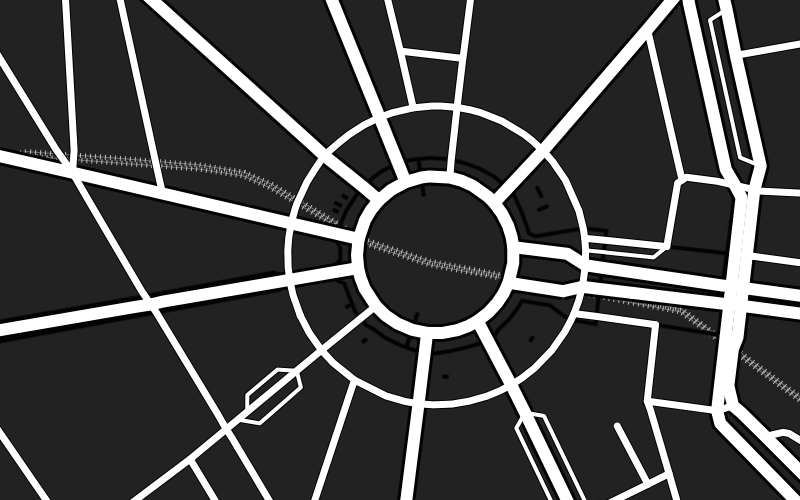
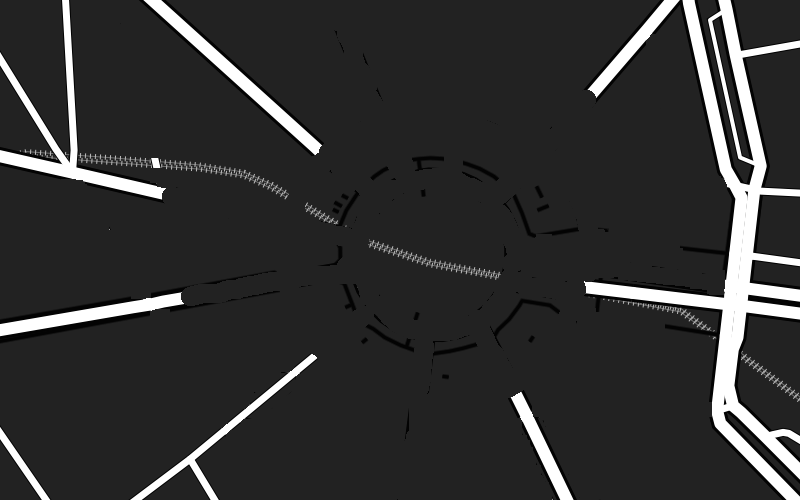
...

diff --git a/explicit-texture-m.html b/explicit-texture-m.html
@@ -24,10 +24,10 @@
 	</style>
 </head>
 <body onload="startTime()">
-	<h3>Please draw a route from A to B and press "submit".</h3>
+<h3>Please draw a route from A to B and press "submit".</h3>
 	<div id="map"></div>
-		<div id="legend" style="float:left; margin-left: 50px;">
-<!-- 		<img src="images/legend_red.png" width="100px"> -->
+	<div id="legend" style="float: left; margin-left: 50px;">
+		<img src="images/legend_blue_border.png" width="100px">
 	</div>
 	<div id="buttons" style="clear: both;">
 	<input id="deleteButton" type="button" value="Delete route"
@@ -41,10 +41,19 @@
 	</div>
 	<script>
 		var visualization = 6;
+		var backgroundPath = "./images/scenario1.png";
+		var roadfile = "scenario1";
+		var roadnodesfile = "scenario1_points";
 		var pointsABname = "AB1";
-		var A_B_LABEL_POSITION = [-30, 0, 25, -5];
-		var risks = [0, 0.61, 0.41, 0.21, 0.01];
+		var A_B_LABEL_POSITION = [ -30, 0, 25, 35 ];
+		var risks = [ 0, 0.2, 0.10, 0.04, 0.025 ];
 		var routes = false;
+		
+		var width = 800;
+		var height = 500;
+		var center = [width / (200.), height / 200.]; // Center vector [lon, lat]
+		var scale = width * 2.3 * Math.PI;
+		var translate = [width/2, height/2-1];
 	</script>
 	<script src="lib/d3.js"></script>
 	<script src="lib/topojson.js"></script>

diff --git a/explicit-color-2.html b/explicit-color-2.html
@@ -35,7 +35,7 @@
 	<h3>Please draw a route from A to B and press "submit".</h3>
 	<div id="map"></div>
 	<div id="legend" style="float: left; margin-left: 50px;">
-		<img src="images/legend_blue.png" width="100px">
+		<img src="images/legend_blue_border.png" width="100px">
 	</div>
 	<div id="buttons" style="clear: both;">
 	<input id="deleteButton" type="button" value="Delete route"
@@ -53,14 +53,14 @@
 		var roadfile = "scenario2";
 		var roadnodesfile = "scenario2_points";
 		var pointsABname = "scenario2-AB1";
-		var A_B_LABEL_POSITION = [ -20, -15, 0, 50 ];
+		var A_B_LABEL_POSITION = [ -25, 35, -10, 50 ];
 		var risks = [ 0, 0.2, 0.10, 0.04, 0.025 ];
 		var routes = false;
 		
 		var width = 800;
 		var height = 500;
-		var center = [width / (200.), height / 200.], // Center vector [lon, lat]
-		var scale = width * 2.3 * Math.PI,
+		var center = [width / (200.), height / 200.]; // Center vector [lon, lat]
+		var scale = width * 2.3 * Math.PI;
 		var translate = [width/2, height/2-1];
 	</script>
 	<script src="lib/d3.js"></script>

diff --git a/js/sdm.js b/js/sdm.js
@@ -272,6 +272,7 @@ d3.json("data/"+ roadfile + ".topojson", function(error, roaddata) {
 		})
 		.style("fill", SYMBOL_COLOR)
 		.style("stroke", SYMBOL_STROKE_COLOR)
+		.style("stroke-size", 1)
 		.style("opacity", function(d) {
 			return 1;//visualization == EXPLICIT_SYMBOL_M ? getSymbolOpacity(d) : 1;
 		});
@@ -869,7 +870,7 @@ function drawSegment(selected) {
 		probNotBlocked /= segProbNotBlocked;
 		routeRisk = 1 - probNotBlocked;
 	}
-	 console.log("current route: " + route);
+//	 console.log("current route: " + route);
 	// console.log("current route length: " + routeLength);
 	d3.select("#lengthTextfield").html("Route length: " + Math.round(routeLength) + " m");
 	d3.select("#riskTextfield").html("Not blocked: " + Math.round(100*probNotBlocked ) + "%");

diff --git a/explicit-color-1b.html b/explicit-color-1b.html
@@ -35,7 +35,7 @@
 	<h3>Please draw a route from A to B and press "submit".</h3>
 	<div id="map"></div>
 	<div id="legend" style="float: left; margin-left: 50px;">
-		<img src="images/legend_blue.png" width="100px">
+		<img src="images/legend_blue_border.png" width="100px">
 	</div>
 	<div id="buttons" style="clear: both;">
 	<input id="deleteButton" type="button" value="Delete route"
@@ -59,8 +59,8 @@
 		
 		var width = 800;
 		var height = 500;
-		var center = [width / (200.), height / 200.], // Center vector [lon, lat]
-		var scale = width * 2.3 * Math.PI,
+		var center = [width / (200.), height / 200.]; // Center vector [lon, lat]
+		var scale = width * 2.3 * Math.PI;
 		var translate = [width/2, height/2-1];
 	</script>
 	<script src="lib/d3.js"></script>
